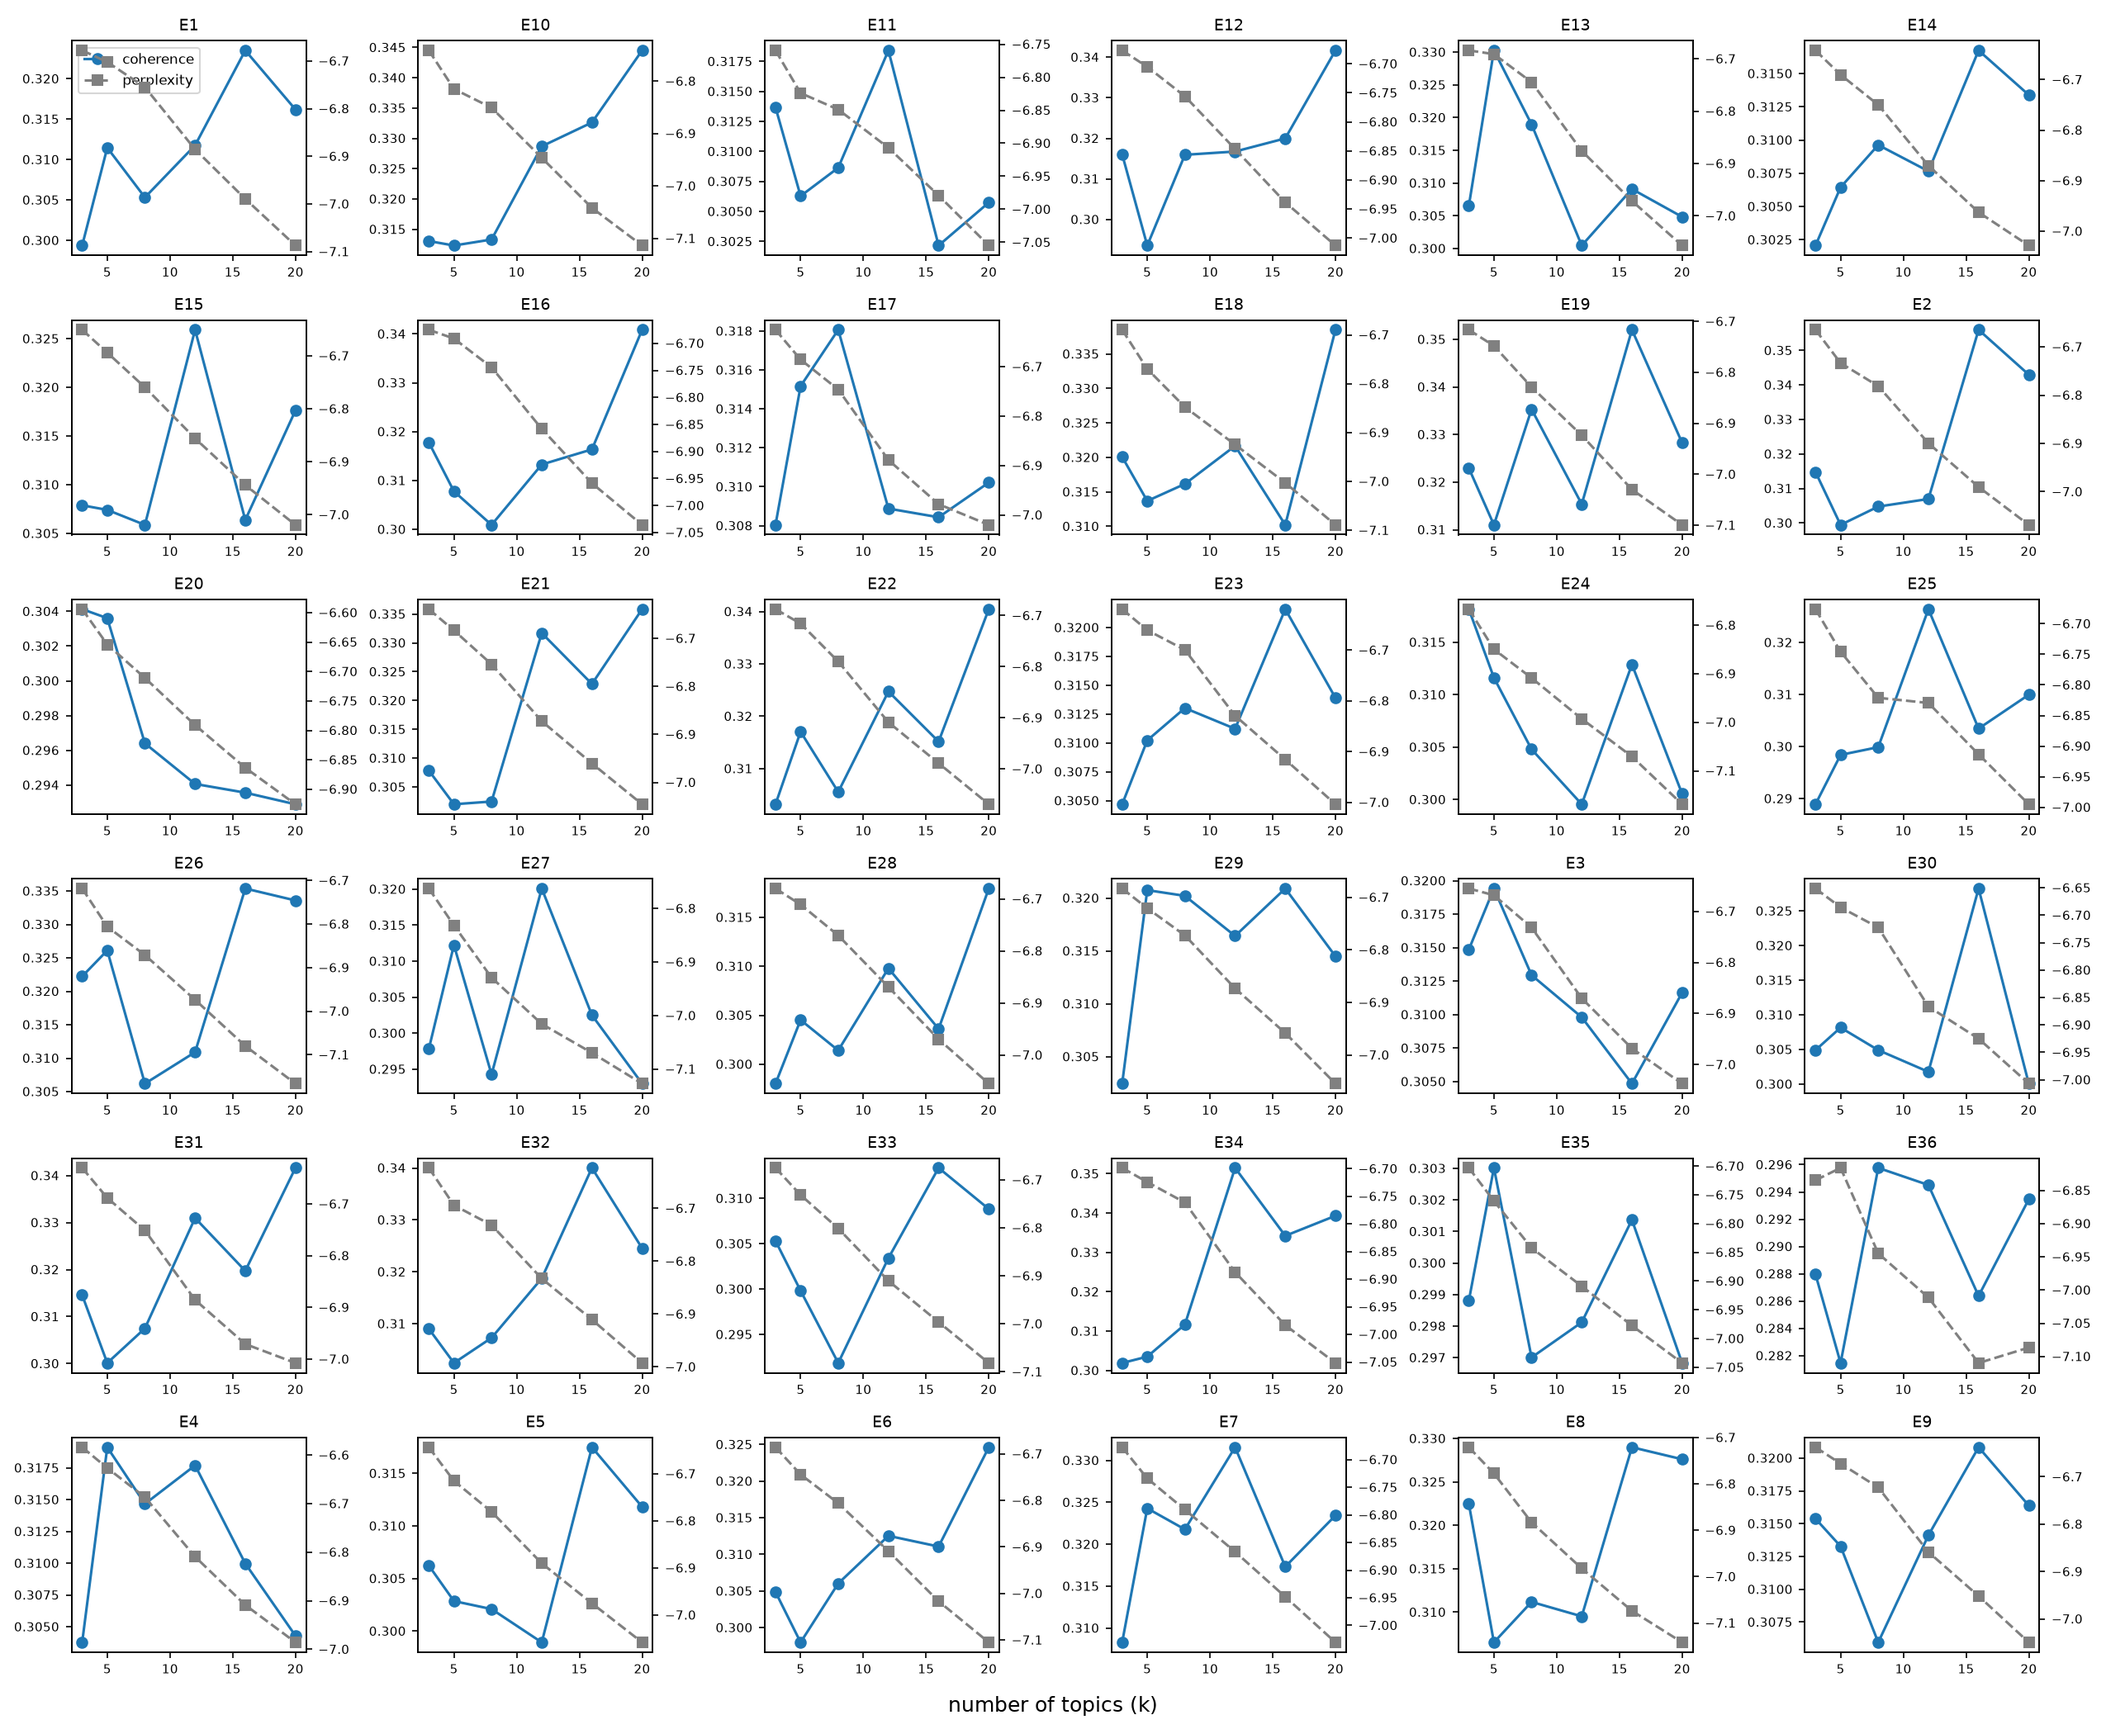
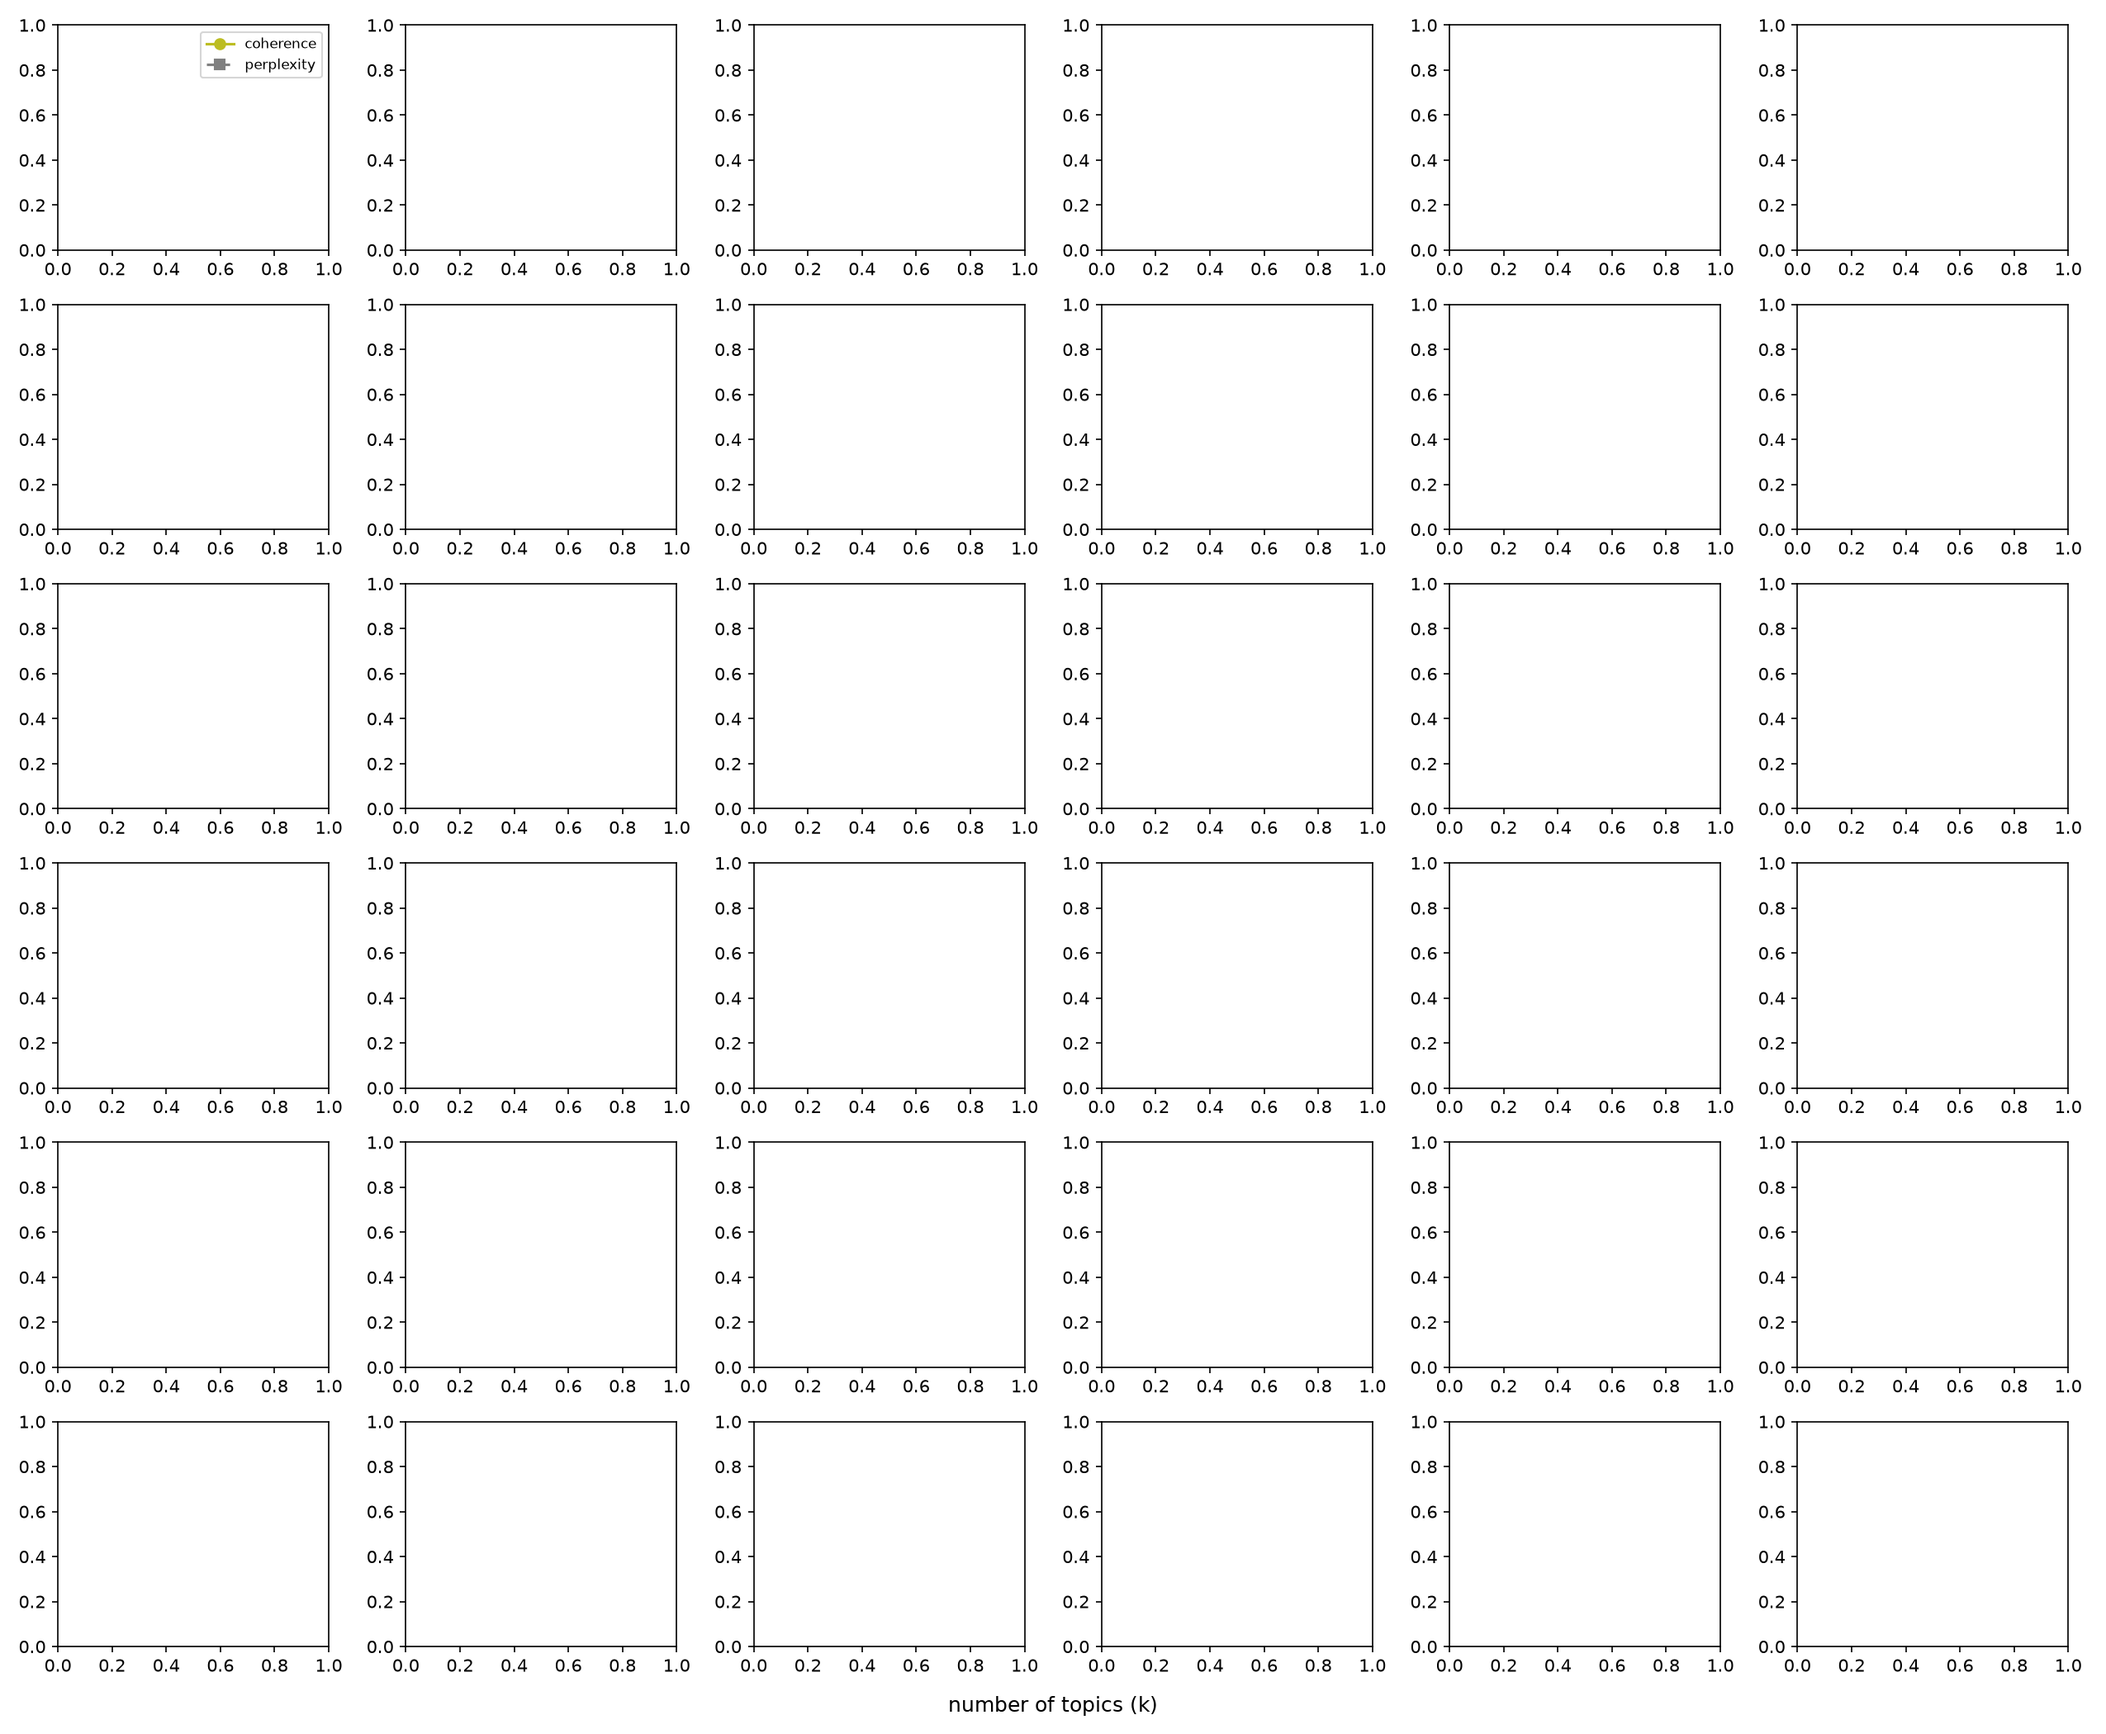
Builder now marimo-native: one merged app, marimo exports ipynb+html
build_submission.py rewritten: parses present task notebooks' cells
verbatim, dedups SETUP into one preamble (returns its names), drops
per-notebook mo shims, detects collisions INCLUDING loop variables,
emits one marimo app; marimo export ipynb + html run inside.
Verification: 30 cells; html export executed end-to-end clean.
Owner lines removed from notebooks 01/02; figures refreshed.

diff --git a/notebooks/02_topics.py b/notebooks/02_topics.py
@@ -7,19 +7,18 @@ app = marimo.App(width="medium")
 @app.cell
 def _():
     import marimo as mo
+
     return (mo,)
 
 
 @app.cell
 def _(mo):
-    mo.md(
-        """
-        # 02 — Topic change (Task 2)
+    mo.md("""
+    # 02 — Topic change (Task 2)
 
-        Hypothesis: people who change topics introduce new words fast and
-        have more topic piles. Owner: A (Hector).
-        """
-    )
+    Hypothesis: people who change topics introduce new words fast and
+    have more topic piles.
+    """)
     return
 
 
@@ -32,7 +31,7 @@ def _():
 
     SPEAKERS = data.load_speakers()
     PROFILES = data.load_profiles()
-    return PROFILES, SPEAKERS, counting, data, pd, plt, topics
+    return PROFILES, SPEAKERS, counting, pd, plt, topics
 
 
 @app.cell
@@ -55,8 +54,8 @@ def _(mo):
 @app.cell
 def _(SPEAKERS, counting, plt):
     T2_FIG, (T2_AX1, T2_AX2) = plt.subplots(1, 2, figsize=(13, 5))
-    for _, pile_a in SPEAKERS.groupby("annotator"):
-        growth = counting.vocab_growth(pile_a["english_item"])
+    for _, pile_b in SPEAKERS.groupby("annotator"):
+        growth = counting.vocab_growth(pile_b["english_item"])
         T2_AX1.plot(growth["tokens"], growth["vocab_size"], linewidth=1)
         frac = growth["tokens"] / growth["tokens"].iloc[-1]
         T2_AX2.plot(frac, growth["vocab_size"], linewidth=1)
@@ -69,7 +68,7 @@ def _(SPEAKERS, counting, plt):
     T2_FIG.tight_layout()
     T2_FIG.savefig("outputs/figures/task2_vocab_growth.png", dpi=150)
     T2_FIG
-    return (T2_FIG,)
+    return
 
 
 @app.cell
@@ -107,8 +106,8 @@ def _(mo):
 def _(SPEAKERS, plt, topics):
     T2_SWEEPS = {}
     T2_FIG2, T2_AXES = plt.subplots(6, 6, figsize=(17, 14))
-    for ax, (name_b, pile_b) in zip(T2_AXES.flat, SPEAKERS.groupby("annotator")):
-        result = topics.sweep_speaker(name_b, pile_b["english_item"])
+    for ax_b, (name_b, pile_c) in zip(T2_AXES.flat, SPEAKERS.groupby("annotator")):
+        result = topics.sweep_speaker(name_b, pile_c["english_item"])
         T2_SWEEPS[name_b] = result
         ax2 = ax.twinx()
         l1 = ax.plot(result["k"], result["coherence"], "o-", label="coherence")
@@ -122,7 +121,7 @@ def _(SPEAKERS, plt, topics):
     T2_FIG2.tight_layout()
     T2_FIG2.savefig("outputs/figures/task2_lda_sweeps.png", dpi=150)
     T2_FIG2
-    return (T2_FIG2, T2_SWEEPS)
+    return (T2_SWEEPS,)
 
 
 @app.cell
@@ -142,7 +141,7 @@ def _(PROFILES, T2_SWEEPS, pd, topics):
     T2_JOINED.to_csv("outputs/tables/task2_best_topics.csv")
     T2_CORR.round(3).to_csv("outputs/tables/task2_trait_correlations.csv")
     T2_BEST
-    return (T2_BEST, T2_CORR, T2_JOINED, T2_TRAIT_NAMES)
+    return (T2_CORR,)
 
 
 @app.cell
@@ -158,7 +157,7 @@ def _(mo):
 
 
 @app.cell
-def _(T2_CORR, mo):
+def _(T2_CORR):
     T2_CORR
     return
 

diff --git a/notebooks/01_count_words.py b/notebooks/01_count_words.py
@@ -17,7 +17,6 @@ def _(mo):
     # 01 — Speaker stats (Task 1)
 
     Rule A piles (non-neutral reactions). Text column: `english_item`.
-    Owner: A.
     """)
     return
 
